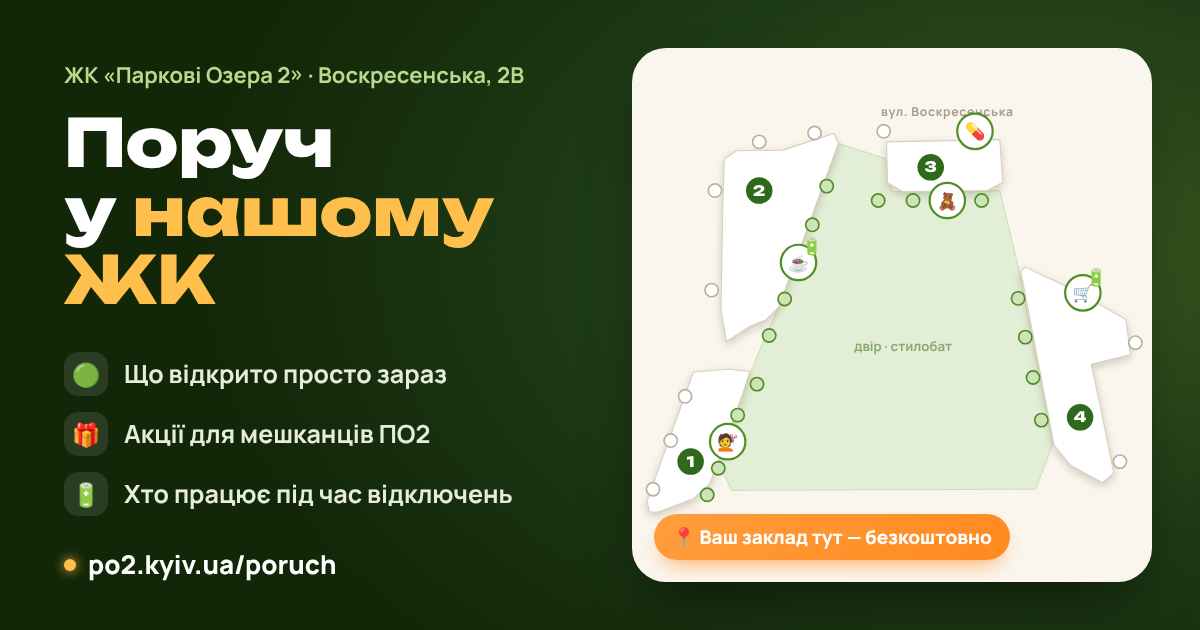
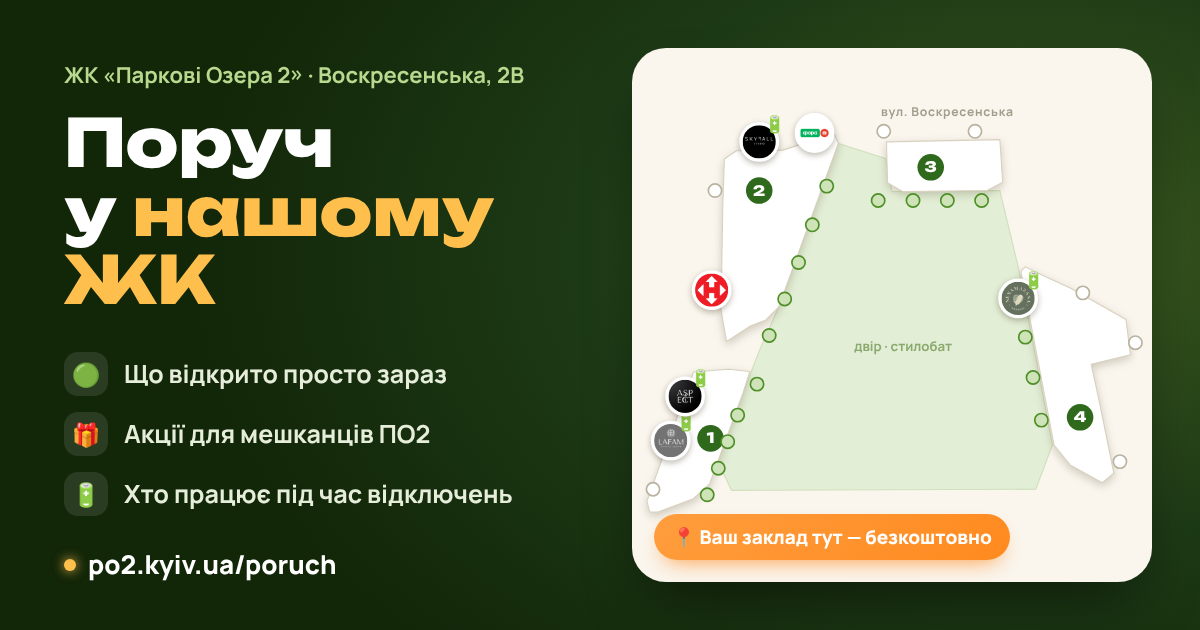
Прев'ю «Поруч»: справжні логотипи закладів на карті
Claude-Session: https://claude.ai/code/session_01WgNAs19H1RoJtxDub5TKHf

diff --git a/tools/og-poruch.html b/tools/og-poruch.html
@@ -1,6 +1,6 @@
 <!doctype html>
 <!-- Прев'ю сторінки /poruch/ (1200×630). Знімок робить tools/build_og.js → img/og-poruch.png
-     Статичне: карта ЖК з контурами секцій (як у poruch.js), іконки — ілюстрація, не реальні заклади. -->
+     Статичне: карта ЖК з контурами секцій (як у poruch.js) і логотипи закладів з img/poruch (оновлювати при новому закладі). -->
 <html lang="uk">
 <head>
 <meta charset="utf-8">
@@ -27,7 +27,7 @@
   .bld { fill: #fff; stroke: #d9d1bf; stroke-width: 2; stroke-linejoin: round; }
   .badge circle { fill: #2f6a1c; } .badge text { fill: #fff; font: 800 26px Unbounded, sans-serif; text-anchor: middle; }
   .u--yard { fill: #cfe3b8; stroke: #4e8f27; stroke-width: 3; } .u--street { fill: #fff; stroke: #b9b2a0; stroke-width: 3; }
-  .pin circle { fill: #fff; stroke: #4e8f27; stroke-width: 4; } .pin text { font-size: 30px; text-anchor: middle; }
+  .pin circle { fill: #fff; stroke: #fff; stroke-width: 4; filter: drop-shadow(0 4px 6px rgba(60,50,20,.35)); } .pin text { font-size: 30px; text-anchor: middle; }
   .bolt { font-size: 22px; text-anchor: middle; }
   .street { font: 700 22px Manrope, sans-serif; fill: #a39d8b; text-anchor: middle; letter-spacing: .06em; }
   .yard__t { font: 700 24px Manrope, sans-serif; fill: #8aa96d; text-anchor: middle; }
@@ -61,15 +61,18 @@
   const U = [[108,690,0],[140,602,0],[166,522,0],[206,700,1],[226,652,1],[243,604,1],[261,556,1],[296,500,1],[214,330,0],[220,150,0],[300,62,0],[400,46,0],
     [318,412,1],[346,346,1],[371,280,1],[396,212,1],[422,142,1],[525,43,0],[690,43,0],[515,168,1],[578,168,1],[640,168,1],[702,168,1],
     [885,335,0],[980,425,0],[952,640,0],[768,345,1],[781,415,1],[795,488,1],[810,565,1]];
-  const PINS = [[371,280,"☕",1],[885,335,"🛒",1],[243,604,"💇",0],[690,43,"💊",0],[640,168,"🧸",0]];
+  // Справжні заклади й сервіси з poruch.js: [x, y, логотип, працює при відключеннях]
+  const PINS = [[140,602,"lafam_kyiv",1],[166,522,"coffee.aspect",1],[300,62,"skyfall.beauty.studio",1],[400,46,"fora",0],[768,345,"nenamazana_",1],
+    [214,330,"np-branch",0]];
   const used = new Set(PINS.map(([x, y]) => x + "," + y));
   document.getElementById("map").innerHTML = `
     <polygon class="yard" points="${YARD}"/><text class="yard__t" x="560" y="440">двір · стилобат</text>
     <g style="filter: drop-shadow(0 6px 8px rgba(60,50,20,.22))">${SH.map((p) => `<polygon class="bld" points="${p}"/>`).join("")}</g>
-    ${[[1,176,640],[2,300,150],[3,610,108],[4,880,560]].map(([n,x,y]) => `<g class="badge" transform="translate(${x} ${y})"><circle r="24"/><text dy="9">${n}</text></g>`).join("")}
+    ${[[1,212,598],[2,300,150],[3,610,108],[4,880,560]].map(([n,x,y]) => `<g class="badge" transform="translate(${x} ${y})"><circle r="24"/><text dy="9">${n}</text></g>`).join("")}
     <text class="street" x="640" y="16">вул. Воскресенська</text>
     ${U.filter(([x, y]) => !used.has(x + "," + y)).map(([x, y, yd]) => `<circle class="${yd ? "u--yard" : "u--street"}" cx="${x}" cy="${y}" r="12"/>`).join("")}
-    ${PINS.map(([x, y, e, b]) => `<g class="pin" transform="translate(${x} ${y})"><circle r="32"/><text dy="11">${e}</text>${b ? '<text class="bolt" x="24" y="-18">🔋</text>' : ""}</g>`).join("")}`;
+    <defs><clipPath id="c"><circle r="30"/></clipPath></defs>
+    ${PINS.map(([x, y, f, b]) => `<g class="pin" transform="translate(${x} ${y})"><circle r="34"/><image href="../img/poruch/${f}.jpg" x="-30" y="-30" width="60" height="60" clip-path="url(#c)" preserveAspectRatio="xMidYMid slice"/>${b ? '<text class="bolt" x="28" y="-22">🔋</text>' : ""}</g>`).join("")}`;
 </script>
 </body>
 </html>

diff --git a/CLAUDE.md b/CLAUDE.md
@@ -17,7 +17,7 @@
 - `zbir/` — сторінка «Резервне живлення» (po2.kyiv.ua/zbir/, 06.11.2026): збір співвласників на **інвертор + акумулятори** (генератор прибрали, ІГ 06.11 — не згадувати). Цільової суми поки немає (вирішать за активністю), зараз кожен вносить **скільки може** (не за площею); після створення ОСББ — разовий платіж, однаковий для всіх (рішення ІГ, 06.11.2026). Блок «Що це нам дасть»: безперебійна вода, опалення (і з 07.11 — світло в під'їздах) під час відключень світла, за умови що місто подає воду й теплоносій. Окремим рядком «Якщо дозволить сума»: ліфти, пожежні системи, обладнання інтернет-провайдерів. Крок 4: разовий платіж визначать загальні збори ОСББ; переплату зараховують у щомісячні платежі. Кнопки сум: 5 000 / 7 500 / 10 000 / інша (ІГ, 06.11). Показує лише агрегати (Так/Подумаю/Ні, обіцяно, «хмара» сум «сума × к-сть квартир» без номерів, сплачено, по секціях). Підпис суми — «озвучено готовність внести» (не «обіцяно»). Табличка «Останні заявки» (до 30 рядків: дата · секція · сума, без номерів і часу) — для тих, кому звичніша таблиця. Змінити суму = надіслати форму ще раз з тим самим контактом. Медіану на сайті **не показуємо** (ІГ: низькі суми стають орієнтиром); у хмарі більші суми — першими й крупніше. `median` у JSON лишився, не використовується. ІГ просила список «квартира — сума» — не публікуємо через правило про номери; можливий лише opt-in, якщо власник вирішить з `zbirUrl` + `?stats=1`; форма (№, ім'я — обов'язково, готовність, сума, контакт) POST-ить text/plain у той самий веб-застосунок. `zbirUrl` у `data.js` порожній → форма «скоро». З 07.11.2026 (ІГ): ціль — від 250 000 грн **на секцію** (`zbirGoal` у `data.js`), мінімальний набір = освітлення + усі насоси ≈ 3 год; прогрес-бари рахують гроші від цілі (загальна = 4 × 250 000). Світло в під'їздах — у основному переліку. Блок «Чиє буде обладнання»: власники — група мешканців порівну з кожної секції; встановлення погоджуємо з КК. Про оренду КК не писати.
 - `tools/zbir-script/Code.gs` (+ README) — Apps Script у таблиці опитування `po2_zbir` (окрема Google-таблиця власника, не реєстр): аркуш «Опитування» з 4-го рядка A секція · B № · C площа · D ім'я · E готовність · F сума · G сплачено (вручну) · H примітка · I контакт · J оновлено; лог «Заявки». Чужий контакт не перезаписує рядок (⚠ у примітці). Ліміт 5 заявок/квартиру/год, приманка `website`.
 - `img/og-zbir.png` — прев'ю /zbir/ з `tools/og-zbir.html` (статичне).
-- `img/og-poruch.png` — прев'ю /poruch/ з `tools/og-poruch.html` (статичне: карта ЖК, іконки — ілюстрація).
+- `img/og-poruch.png` — прев'ю /poruch/ з `tools/og-poruch.html` (статичне: карта ЖК з логотипами закладів із img/poruch; при новому закладі — додати в PINS у tools/og-poruch.html і перезняти).
 - `img/qr-*.svg` — QR-коди ДАХ (`https://app.dah.in.ua/oNCk`) і бота (`https://t.me/PO2KYIVBOT`).
 
 ## Приватність — обов'язково
